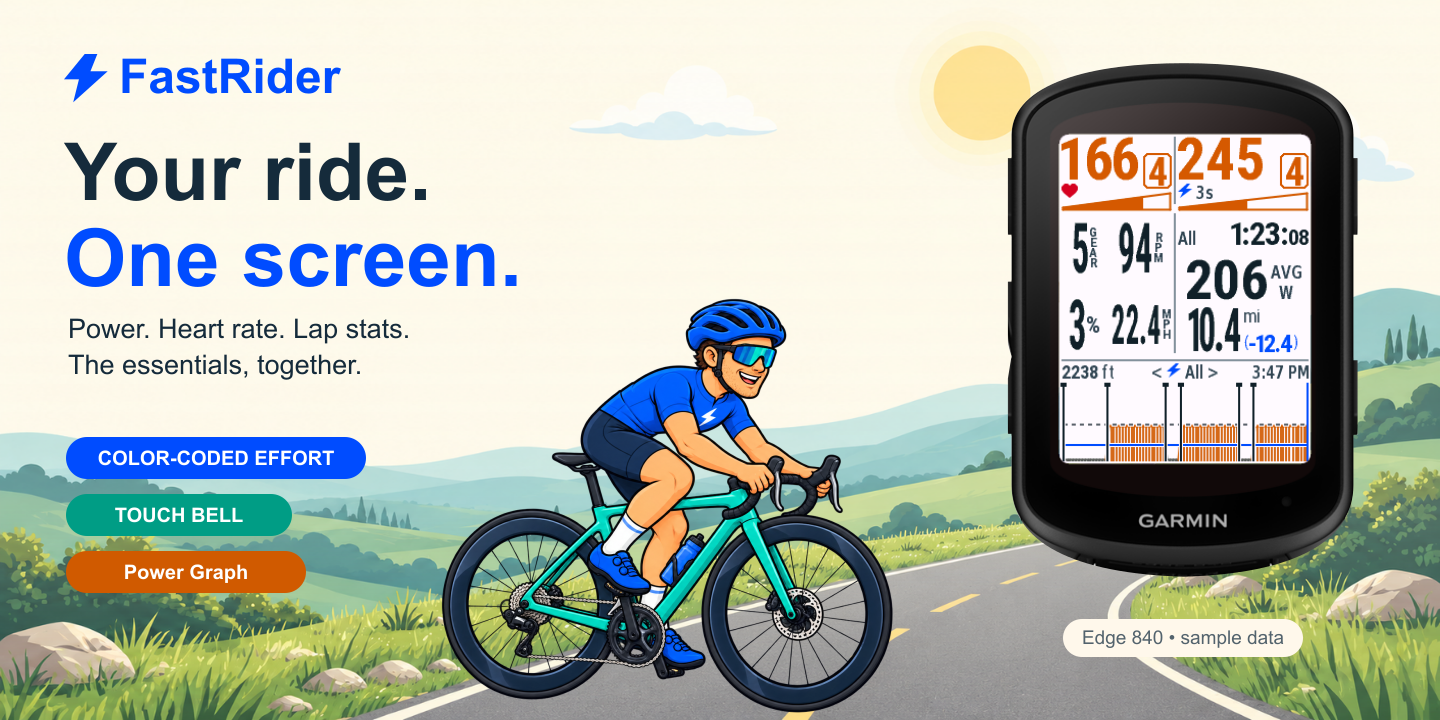
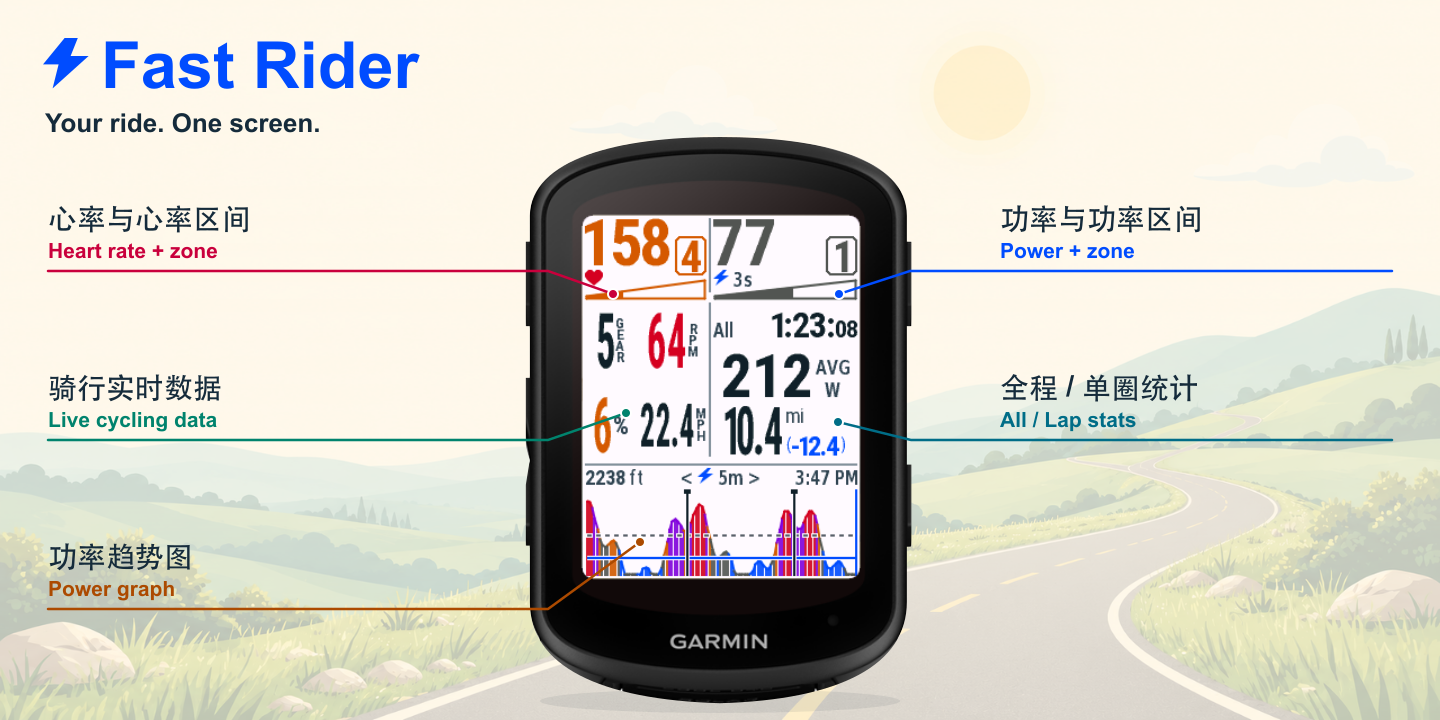
Replace Store hero with bilingual Edge dashboard callouts

diff --git a/store/campaign/v0.4.13/index.html b/store/campaign/v0.4.13/index.html
@@ -1,9 +1,9 @@
 <!doctype html><html lang="zh-CN"><meta charset="utf-8"><meta name="viewport" content="width=device-width,initial-scale=1"><title>Fast Rider · Store Kit 0.4.13</title><style>body{margin:0;background:#fff8eb;color:#152b3b;font:16px/1.65 Arial,sans-serif}main{max-width:1160px;margin:auto;padding:40px 28px}h1{font-size:40px;line-height:1.2;color:#004cff}h2{margin-top:44px}a{color:#004cff}.grid{display:grid;grid-template-columns:repeat(2,minmax(0,1fr));gap:22px}.grid img,.hero{display:block;width:100%;border-radius:20px}figure{margin:0}figcaption{font-size:14px;margin:8px 4px 20px}.icons{display:flex;gap:28px;align-items:center;background:white;padding:24px;border-radius:22px;flex-wrap:wrap}.icons img{max-width:220px;max-height:220px}.facts{display:flex;gap:14px;flex-wrap:wrap}.facts span{background:white;border-radius:16px;padding:10px 18px}table{border-collapse:collapse;width:100%;background:white}th,td{padding:12px 16px;text-align:left;vertical-align:top;border-bottom:1px solid #dde1e5}pre{white-space:pre-wrap;background:white;padding:24px;border-radius:18px;font:15px/1.65 Arial,sans-serif}.sub{color:#53636d}.pill{background:#004cff;color:white;border-radius:12px;padding:2px 8px}@media(max-width:750px){.grid{grid-template-columns:1fr}main{padding:24px 16px}h1{font-size:30px}}</style><main>
 <h1>Fast Rider <span class="pill">0.4.13</span></h1>
-<p>当前界面宣传材料：公路骑手、骑行太阳镜、真实 Edge 840 机身与最新原生截图。</p>
+<p>中英双语 Hero：真实 Edge 840 日间骑行界面、五区功能标注与淡色公路背景；功能图沿用公路骑手风格。</p>
 <div class="facts"><span>12 款 Edge</span><span>12 张图片</span><span>无需视频</span><span>英文介绍 4000 字符内</span></div>
 <p><a href="README.md">填写说明</a> · <a href="copy/description-en.txt">英文介绍</a> · <a href="copy/description-zh-CN.txt">中文介绍</a> · <a href="copy/whats-new-en.txt">What’s New</a></p>
-<a href="upload/01-hero-en.png"><img class="hero" src="upload/01-hero-en.png" alt="Fast Rider Hero：Power Graph、车铃和彩色分区"></a>
+<a href="upload/01-hero-en.png"><img class="hero" src="upload/01-hero-en.png" alt="Fast Rider 中英双语 Hero：心率、功率、骑行数据、全程/单圈统计与功率图"></a>
 <h2>表单内容</h2><table><tr><th>字段</th><th>内容</th></tr>
 <tr><td>App File</td><td>FastRider-0.4.13.iq（使用同目录或Downloads中的签名IQ）</td></tr>
 <tr><td>Title</td><td>Fast Rider</td></tr>
@@ -68,12 +68,23 @@ Free and open source. No ads, external account or developer data collection. Ind
 
 Source &amp; support: https://github.com/zhilichen/garmin-fast-rider
 Privacy: https://github.com/zhilichen/garmin-fast-rider/blob/main/PRIVACY.md</pre>
-<h2>What’s New <small class="sub">390/4000</small></h2><pre>Updated for v0.4.13:
-- Current time aligns to the top-right edge of the paused summary.
-- Short paused-view labels, with small units beside every value.
-- Larger live metrics and riding distance, plus numbered zone badges and tapered zone-progress bars.
-- Automatic ride/paused summaries and day/night colors.
-- Refreshed screenshots for the current UI, Z2 training and threshold intervals.</pre>
+<h2>What’s New <small class="sub">1001/4000</small></h2><pre>Updates from v0.4.3–v0.4.13
+
+• New automatic paused summary: pause your ride to see current/average heart rate, average power, NP, distance, ascent, average cadence and average speed. Resume to return to your riding dashboard.
+
+• Clearer heart-rate and power zones: larger numbered badges and tapered gauges show your position within each zone.
+
+• Bigger riding numbers: gear, cadence, gradient, speed and distance are easier to read.
+
+• Improved All/Lap statistics: compact time formatting and larger distance readings, with remaining navigation miles displayed in blue when available.
+
+• Cleaner paused layout: short labels, units beside values, larger statistics and a top-right clock.
+
+• Better fitting for long readings, including four-digit power and large distances.
+
+• Improved memory handling on older Edge devices, plus refreshed promotional screenshots.
+
+NP is calculated locally. Partial recordings or missing power samples are marked “NP est” and may differ from Garmin’s post-ride value.</pre>
 <h2>中文介绍 <small class="sub">1130/4000</small></h2><pre>功率、心率、圈统计和骑行关键信息，同屏掌握！
 
 Fast Rider 为 Garmin Edge 提供清晰、彩色的骑行仪表盘。骑行时查看大字实时指标；暂停或停止时，自动切换为全程统计。

diff --git a/store/campaign/v0.4.13/build-preview.py b/store/campaign/v0.4.13/build-preview.py
@@ -11,10 +11,10 @@ e = html.escape
 style = '''body{margin:0;background:#fff8eb;color:#152b3b;font:16px/1.65 Arial,sans-serif}main{max-width:1160px;margin:auto;padding:40px 28px}h1{font-size:40px;line-height:1.2;color:#004cff}h2{margin-top:44px}a{color:#004cff}.grid{display:grid;grid-template-columns:repeat(2,minmax(0,1fr));gap:22px}.grid img,.hero{display:block;width:100%;border-radius:20px}figure{margin:0}figcaption{font-size:14px;margin:8px 4px 20px}.icons{display:flex;gap:28px;align-items:center;background:white;padding:24px;border-radius:22px;flex-wrap:wrap}.icons img{max-width:220px;max-height:220px}.facts{display:flex;gap:14px;flex-wrap:wrap}.facts span{background:white;border-radius:16px;padding:10px 18px}table{border-collapse:collapse;width:100%;background:white}th,td{padding:12px 16px;text-align:left;vertical-align:top;border-bottom:1px solid #dde1e5}pre{white-space:pre-wrap;background:white;padding:24px;border-radius:18px;font:15px/1.65 Arial,sans-serif}.sub{color:#53636d}.pill{background:#004cff;color:white;border-radius:12px;padding:2px 8px}@media(max-width:750px){.grid{grid-template-columns:1fr}main{padding:24px 16px}h1{font-size:30px}}'''
 parts = [f'<!doctype html><html lang="zh-CN"><meta charset="utf-8"><meta name="viewport" content="width=device-width,initial-scale=1"><title>Fast Rider · Store Kit {VERSION}</title><style>{style}</style><main>',
     f'<h1>Fast Rider <span class="pill">{VERSION}</span></h1>',
-    '<p>当前界面宣传材料：公路骑手、骑行太阳镜、真实 Edge 840 机身与最新原生截图。</p>',
+    '<p>中英双语 Hero：真实 Edge 840 日间骑行界面、五区功能标注与淡色公路背景；功能图沿用公路骑手风格。</p>',
     f'<div class="facts"><span>12 款 Edge</span><span>{len(assets)} 张图片</span><span>无需视频</span><span>英文介绍 4000 字符内</span></div>',
     '<p><a href="README.md">填写说明</a> · <a href="copy/description-en.txt">英文介绍</a> · <a href="copy/description-zh-CN.txt">中文介绍</a> · <a href="copy/whats-new-en.txt">What’s New</a></p>',
-    '<a href="upload/01-hero-en.png"><img class="hero" src="upload/01-hero-en.png" alt="Fast Rider Hero：Power Graph、车铃和彩色分区"></a>',
+    '<a href="upload/01-hero-en.png"><img class="hero" src="upload/01-hero-en.png" alt="Fast Rider 中英双语 Hero：心率、功率、骑行数据、全程/单圈统计与功率图"></a>',
     '<h2>表单内容</h2><table><tr><th>字段</th><th>内容</th></tr>']
 fields = [('App File',f'FastRider-{VERSION}.iq（使用同目录或Downloads中的签名IQ）'),('Title','Fast Rider'),('Category','Cycling'),('Subcategory','如不可选则留空'),('Collect user data?','No'),('ANT+ encode/decode?','No'),('Regional limits?','No'),('Activity types','Cycling及对应骑行子类'),('Public support email','沿用你已设置的公开支持邮箱'),('Source / support','https://github.com/zhilichen/garmin-fast-rider'),('Privacy','https://github.com/zhilichen/garmin-fast-rider/blob/main/PRIVACY.md'),('Monetization','No'),('Review notifications','沿用你的偏好'),('Automatic migration','建议No，新增型号后明确验收'),('Companion / hardware URL / video','留空')]
 parts += [f'<tr><td>{e(a)}</td><td>{e(b)}</td></tr>' for a,b in fields]

diff --git a/store/campaign/v0.4.13/render.py b/store/campaign/v0.4.13/render.py
@@ -50,15 +50,31 @@ def card_body(n,a,b,name='default'):
 def note(heading,body,x,y,w=394,tint='white',accent=BLUE):
  return rect(x,y,w,133,tint,24)+text(heading,x+24,y+39,23,accent,True)+lines(body,x+24,y+77,23,32)
 
+def hero_callout(zh,en,x,y,color,points):
+ # Two short bilingual headings sit above the leader, without explanatory copy.
+ body=text(zh,x,y,29,NAVY,True,family='Arial, Heiti SC, PingFang SC, sans-serif')
+ body+=text(en,x,y+29,21,color,True)
+ body+=f'<polyline points="{points}" fill="none" stroke="{color}" stroke-width="2.5" stroke-linecap="round" stroke-linejoin="round"/>'
+ px,py=points.split()[-1].split(',')
+ return body+f'<circle cx="{px}" cy="{py}" r="5" fill="{color}" stroke="white" stroke-width="2"/>'
+
+def dashboard_hero():
+ # Keep the Store's 1440x720 hero format; fade the existing paved-road artwork.
+ body='<rect width="1440" height="720" fill="#FFF8EB" fill-opacity="0.68"/>'
+ body+=bolt(43,38,1.2)+text('Fast Rider',101,88,65,BLUE,True)
+ body+=text('Your ride. One screen.',45,132,26,NAVY,True)
+ body+='<ellipse cx="720" cy="701" rx="180" ry="12" fill="#152B3B" fill-opacity="0.08"/>'
+ body+=device(505,128,430,'default')
+ body+=hero_callout('心率与心率区间','Heart rate + zone',48,229,'#C9003C','48,271 457,271 548,271 613,294')
+ body+=hero_callout('功率与功率区间','Power + zone',1000,229,BLUE,'1392,271 979,271 910,271 839,294')
+ body+=hero_callout('骑行实时数据','Live cycling data',48,398,'#00836D','48,440 457,440 548,440 626,413')
+ body+=hero_callout('全程 / 单圈统计','All / Lap stats',1000,398,'#006D87','1392,440 979,440 911,440 838,422')
+ body+=hero_callout('功率趋势图','Power graph',48,567,'#AC4A00','48,609 457,609 548,609 640,542')
+ return body
+
 def main():
  jobs=[]
- hero=bolt(64,54,1.15)+text('FastRider',119,93,48,BLUE,True)
- hero+=text('Your ride.',64,200,80,NAVY,True)+text('One screen.',64,286,80,BLUE,True)
- hero+=lines(['Power. Heart rate. Lap stats.','The essentials, together.'],68,338,27,36)
- hero+=chip('COLOR-CODED EFFORT',66,437,300)+chip('TOUCH BELL',66,494,226,TEAL)+chip('Power Graph',66,551,240,ORANGE)
- hero+=rider(355,296,630)
- hero+=device(989,55,390,'threshold' if ui_file('threshold').exists() else 'default')+rect(1063,619,240,38,CREAM,19)+text('Edge 840 • sample data',1183,644,19,'#53636D',False,'middle')
- jobs.append(save('01-hero-en',hero,1440,720))
+ jobs.append(save('01-hero-en',dashboard_hero(),1440,720))
  b=card_body(1,'Your key numbers.','One screen!')
  b+=note('POWER + HEART RATE',['Big numbers. Bold zones.'],550,243)
  b+=note('GEAR · RPM · MPH · GRADE',['Keep the essentials together.'],550,401)

diff --git a/store/campaign/v0.4.13/README.md b/store/campaign/v0.4.13/README.md
@@ -1,6 +1,6 @@
 # Fast Rider 商店宣传材料 · v0.4.13
 
-沿用戴骑行太阳镜的男性公路骑手、蓝色闪电与铺装道路场景。Hero和八张功能图全部换成当前原生界面，新增暂停统计与日夜模式；设备外侧白底仍采用矢量轮廓裁切。
+Hero采用中间居中的真实Edge840日间骑行界面，五组引线以中英双语标出心率与区间、功率与区间、骑行实时数据、全程/单圈统计和功率趋势图。放大Fast Rider名称，淡色公路背景保持标题清晰，无额外简述。八张功能图沿用戴骑行太阳镜的男性公路骑手；设备外侧白底仍采用矢量轮廓裁切。
 
 ## 可填写内容
 
@@ -26,7 +26,7 @@
 
 | 文件 | 尺寸 | bytes |
 | --- | --- | --- |
-| [01-hero-en.png](upload/01-hero-en.png) | 1440×720 | 1,095,979 |
+| [01-hero-en.png](upload/01-hero-en.png) | 1440×720 | 658,097 |
 | [04-screen-01-one-screen.jpg](upload/04-screen-01-one-screen.jpg) | 1000×1000 | 135,862 |
 | [04-screen-02-touch-bell.jpg](upload/04-screen-02-touch-bell.jpg) | 1000×1000 | 140,753 |
 | [04-screen-03-z2-training.jpg](upload/04-screen-03-z2-training.jpg) | 1000×1000 | 136,364 |

diff --git a/docs/media/README.md b/docs/media/README.md
@@ -1,6 +1,6 @@
 # README visuals
 
-The project homepage reuses the road-cycling [Store campaign](../../store/campaign/v0.4.13/README.md): the same male rider, cycling sunglasses, paved-road scenery and original Edge 840 screen captures. Hero and feature cards are referenced directly, without duplicate exports.
+The project homepage reuses the road-cycling [Store campaign](../../store/campaign/v0.4.13/README.md): a centered Edge 840 day/riding dashboard with five bilingual feature callouts and a pale paved-road background in the Hero; male road cyclists, cycling sunglasses and native captures remain in the feature cards. Hero and feature cards are referenced directly, without duplicate exports.
 
 `developer-map.png` is a separate, editable architecture illustration in that visual style. Its device counts and resolutions come from `config/devices.json`:
 

diff --git a/README.md b/README.md
@@ -2,7 +2,7 @@
 
 **English** · [简体中文](README.zh-CN.md)
 
-[![FastRider: a road cyclist in cycling sunglasses beside an Edge 840, showing power, heart rate, lap statistics and a power graph](store/campaign/v0.4.13/upload/01-hero-en.png)](#download)
+[![Fast Rider: bilingual feature callouts around the Edge 840 day riding dashboard, on a pale road background](store/campaign/v0.4.13/upload/01-hero-en.png)](#download)
 
 **Power, heart rate, lap stats and your ride essentials — on one screen.**
 

diff --git a/README.zh-CN.md b/README.zh-CN.md
@@ -2,7 +2,7 @@
 
 [English](README.md) · **简体中文**
 
-[![戴骑行太阳镜的公路车骑手与 Edge 840：同屏显示功率、心率、圈统计和功率趋势图](store/campaign/v0.4.13/upload/01-hero-en.png)](#download)
+[![Fast Rider中英双语功能引线：居中的Edge840日间骑行界面与淡色公路背景](store/campaign/v0.4.13/upload/01-hero-en.png)](#download)
 
 **功率、心率、Lap 统计和骑行关键信息，一屏看清。**
 
